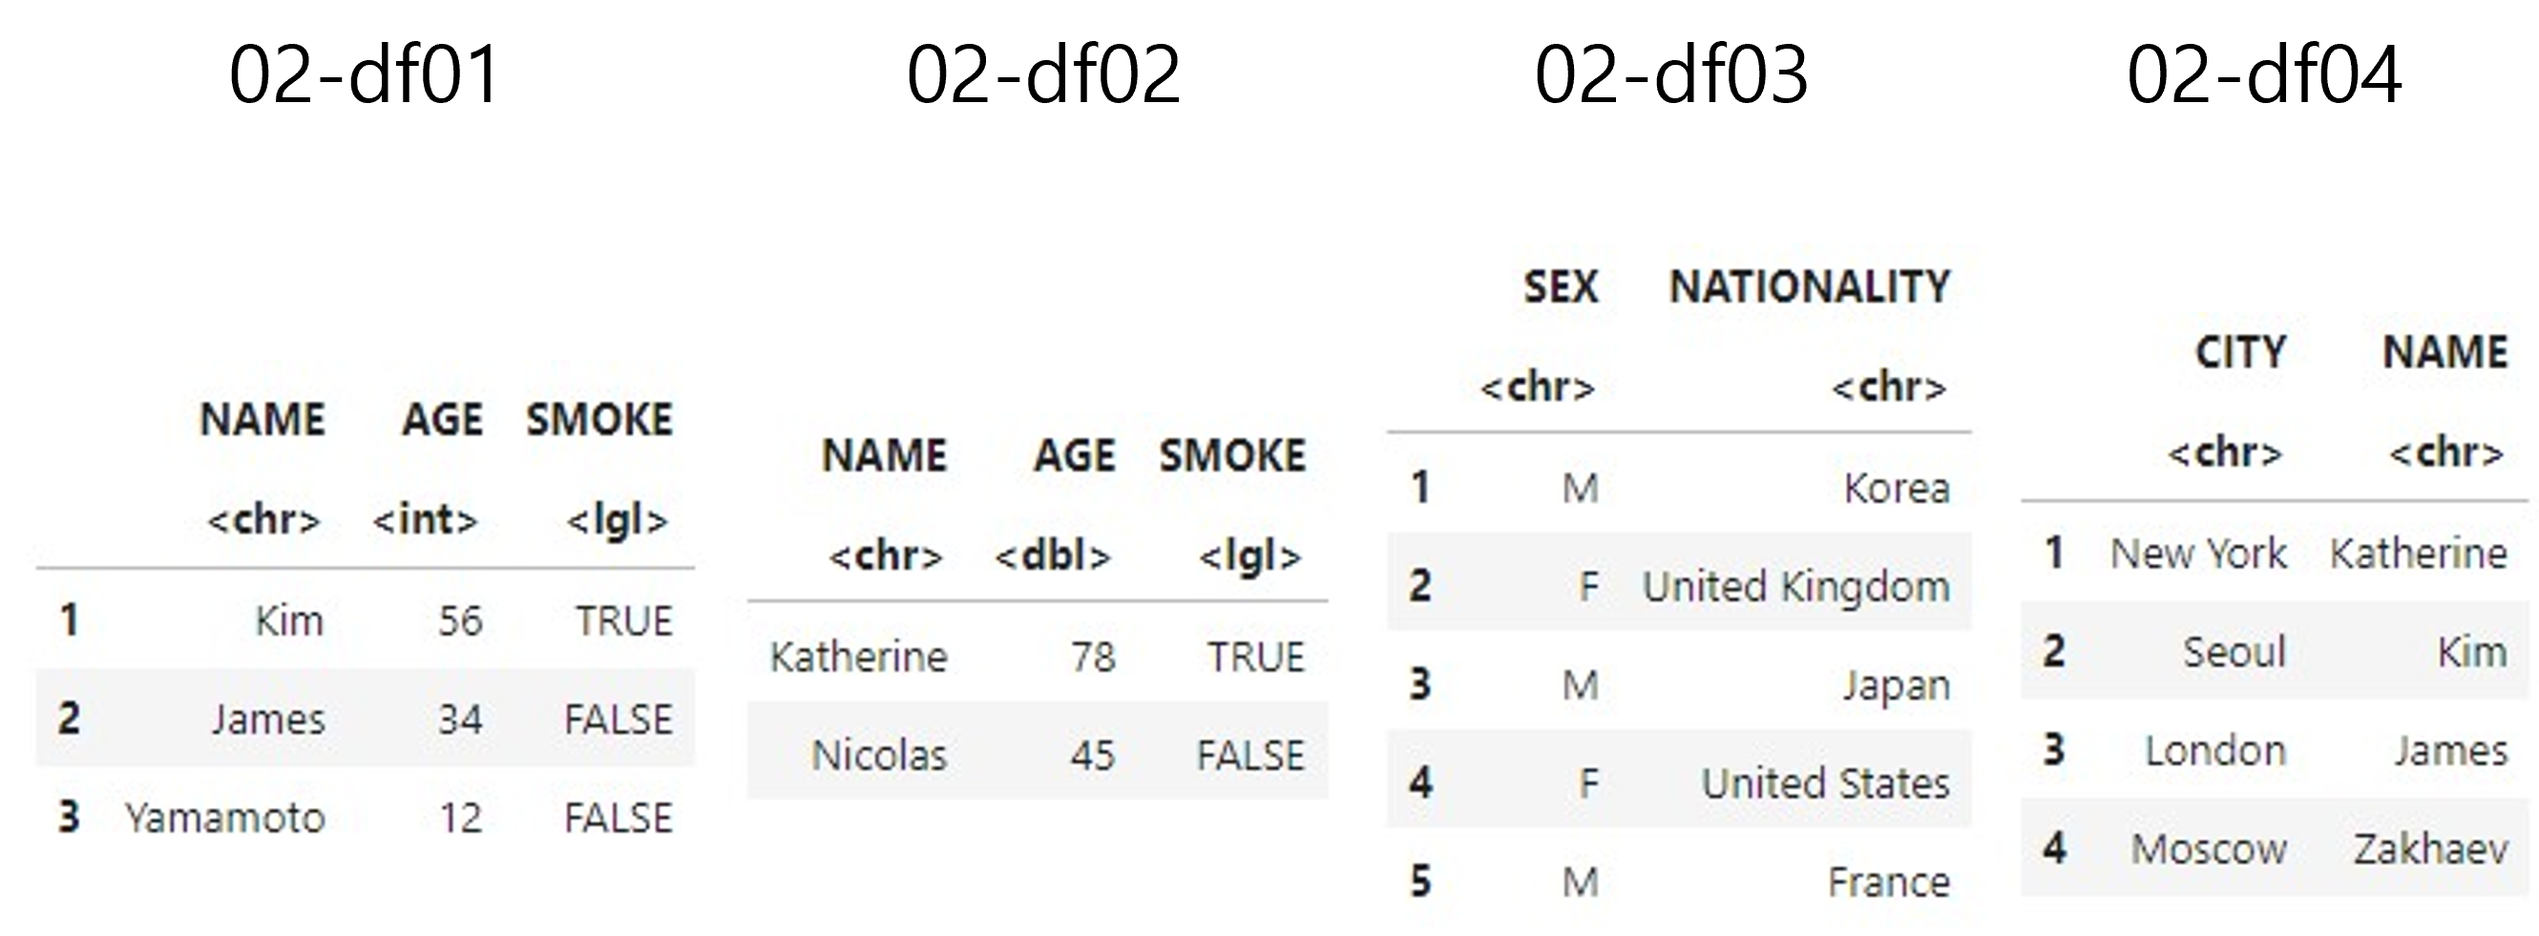
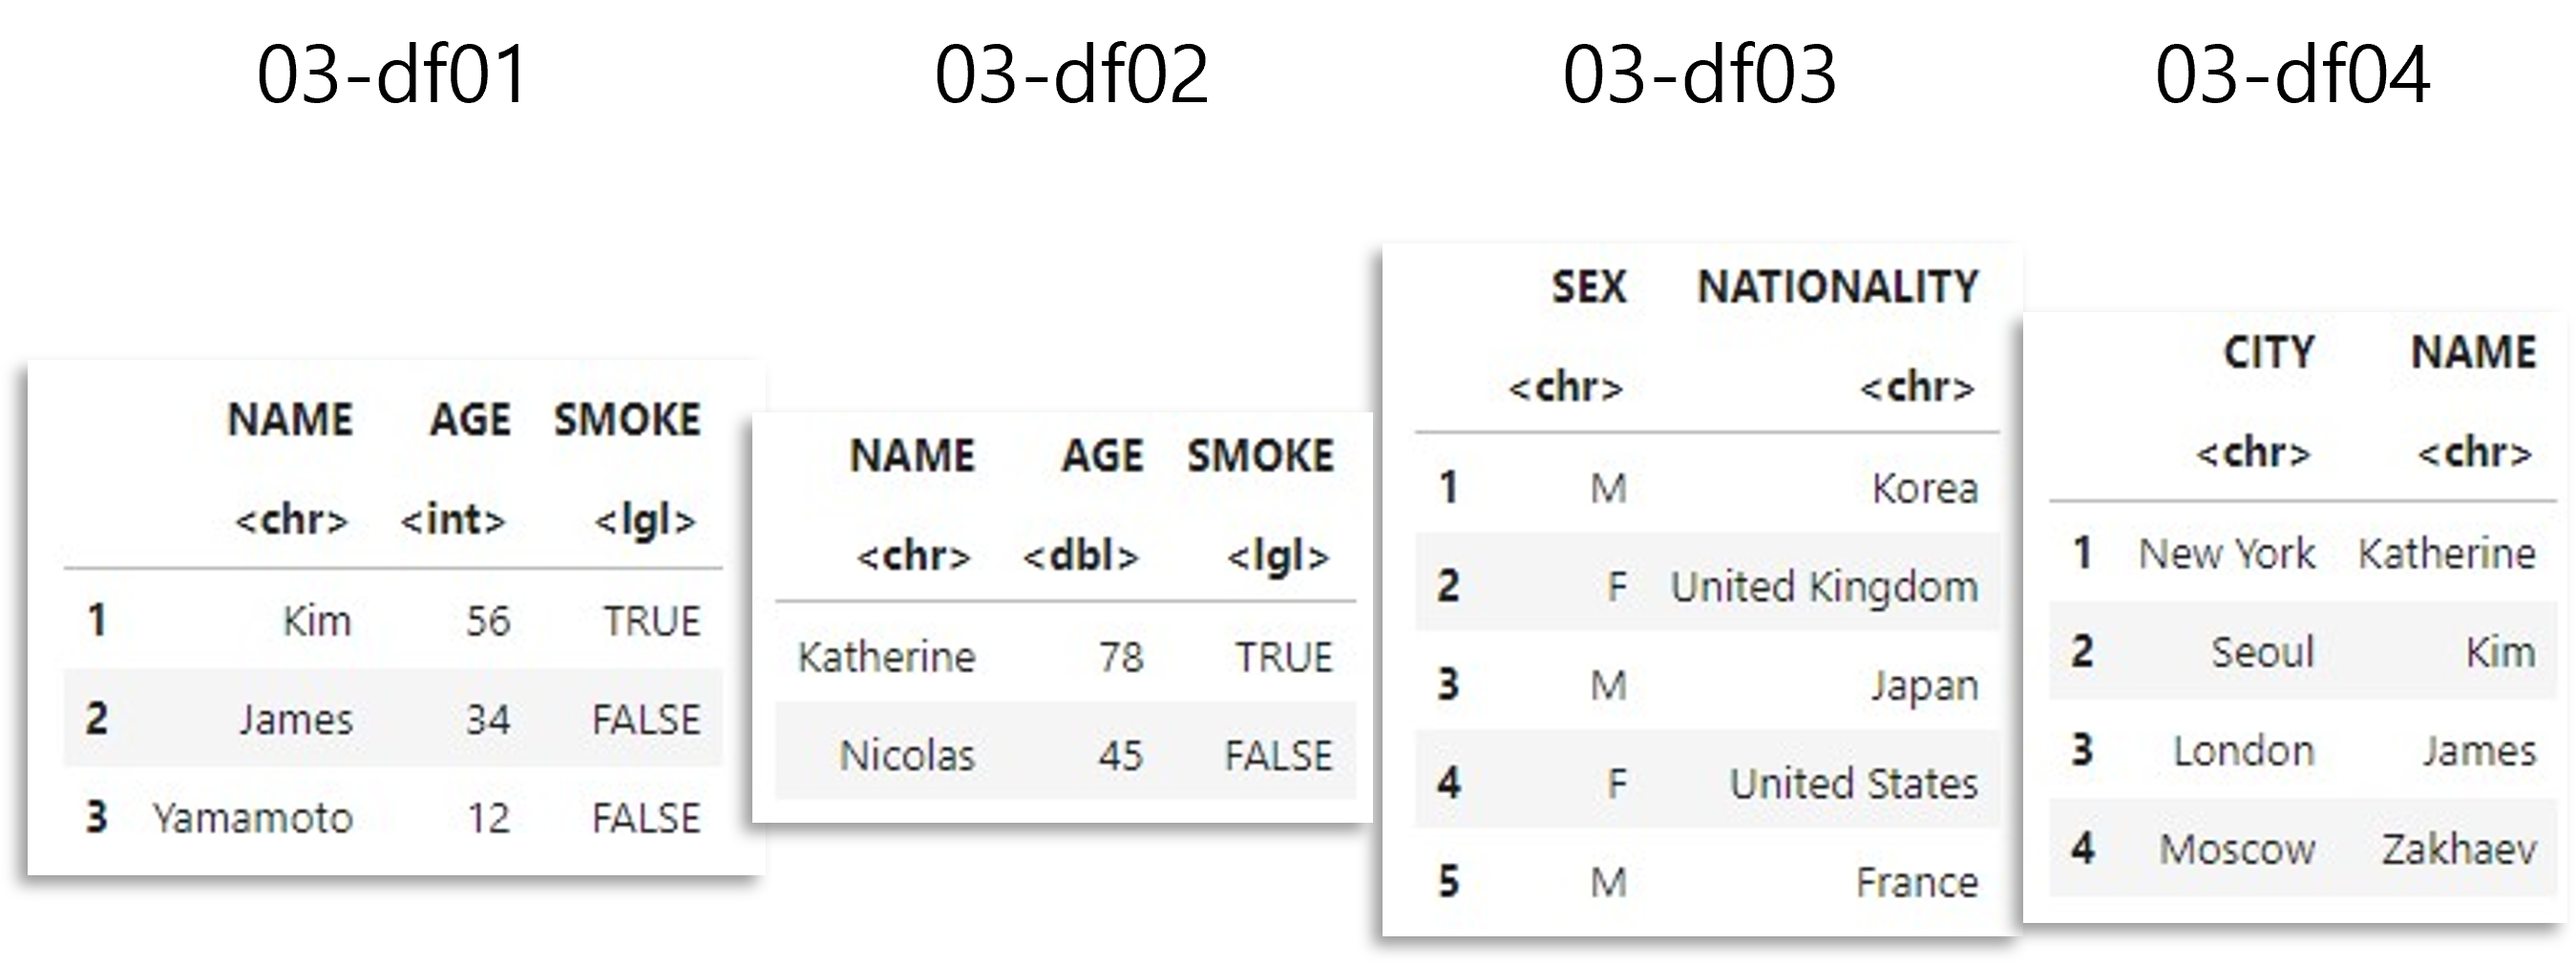
02181302

diff --git a/.ipynb_checkpoints/가이드-02-R 데이터프레임-checkpoint.md b/.ipynb_checkpoints/가이드-02-R 데이터프레임-checkpoint.md
@@ -18,16 +18,16 @@ library(writexl)실습에 사용할 파일: 02-df01.csv, 02-df02.xlsx, 02-df03.c
 #### 03-1. 데이터프레임 불러오기
 
 ```r
-df1<-read.csv("./데이터/02-df01.csv")        #csv파일 불러오기
-df2<-read_excel("./데이터/02-df02.xlsx")     #xlsx파일 불러오
-df3<-read.csv("./데이터/02-df03.csv")
-df4<-read.csv("./데이터/02-df04.csv")
+df1<-read.csv("./데이터/03-df01.csv")        #csv파일 불러오기
+df2<-read_excel("./데이터/03-df02.xlsx")     #xlsx파일 불러오
+df3<-read.csv("./데이터/03-df03.csv")
+df4<-read.csv("./데이터/03-df04.csv")
 ```
 
 <img src="./이미지/2dflist.png" title="" alt="" width="494">
 
 ```r
-df5<-read.csv("./데이터/02-df01.csv", header=FALSE) 
+df5<-read.csv("./데이터/03-df01.csv", header=FALSE) 
 #첫 행을 변수명으로 불러오지 않음
 ```
 

diff --git a/가이드-02-R 데이터프레임.md b/가이드-02-R 데이터프레임.md
@@ -18,16 +18,16 @@ library(writexl)실습에 사용할 파일: 02-df01.csv, 02-df02.xlsx, 02-df03.c
 #### 03-1. 데이터프레임 불러오기
 
 ```r
-df1<-read.csv("./데이터/02-df01.csv")        #csv파일 불러오기
-df2<-read_excel("./데이터/02-df02.xlsx")     #xlsx파일 불러오
-df3<-read.csv("./데이터/02-df03.csv")
-df4<-read.csv("./데이터/02-df04.csv")
+df1<-read.csv("./데이터/03-df01.csv")        #csv파일 불러오기
+df2<-read_excel("./데이터/03-df02.xlsx")     #xlsx파일 불러오
+df3<-read.csv("./데이터/03-df03.csv")
+df4<-read.csv("./데이터/03-df04.csv")
 ```
 
 <img src="./이미지/2dflist.png" title="" alt="" width="494">
 
 ```r
-df5<-read.csv("./데이터/02-df01.csv", header=FALSE) 
+df5<-read.csv("./데이터/03-df01.csv", header=FALSE) 
 #첫 행을 변수명으로 불러오지 않음
 ```
 
